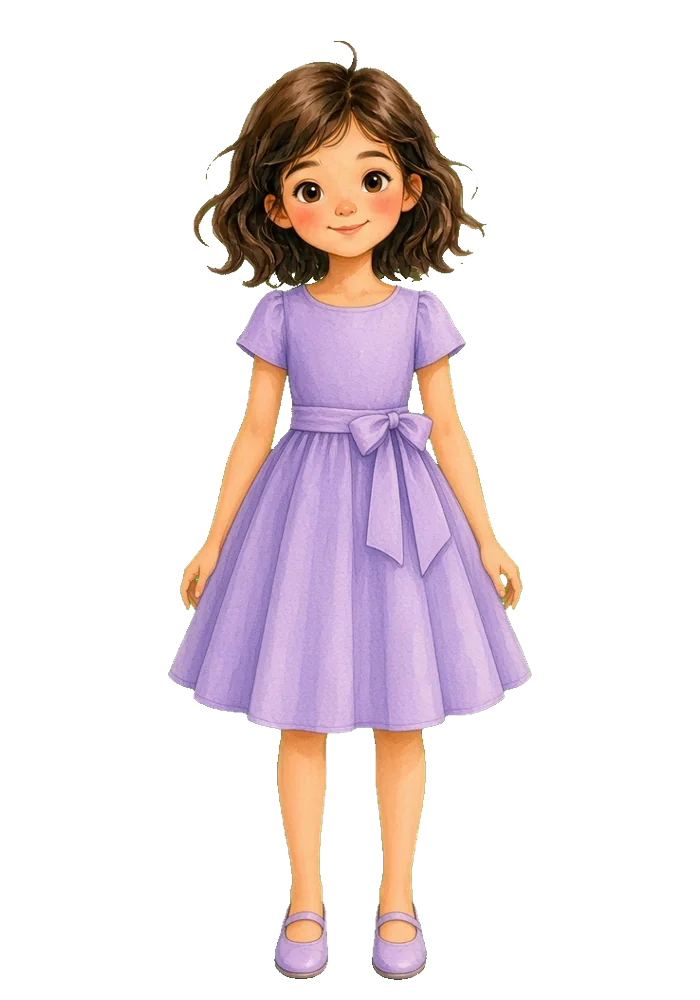
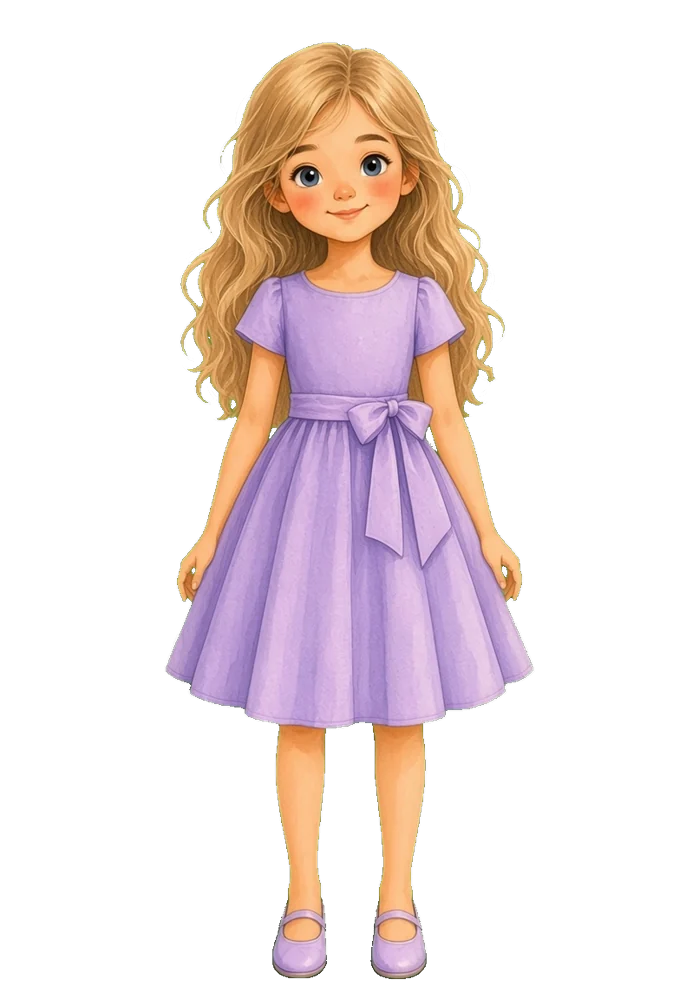
Give Aida long dark blonde hair and blue eyes.
Repaint every outfit, the home-screen icon, and the What's new note for version 1.1.2.

diff --git a/tests/sanity.spec.ts b/tests/sanity.spec.ts
@@ -228,11 +228,11 @@ test('plays every part of Potato Region', async ({ page }) => {
   const href = await page.locator('[data-action="mailto"]').getAttribute('href');
   const decoded = decodeURIComponent(href ?? '');
   expect(decoded).toContain('mailto:gulcin.yildirim@clickhouse.com');
-  expect(decoded).toContain('Potato Region report – v1.1.2 – Map');
+  expect(decoded).toContain('Potato Region report – v1.1.3 – Map');
   expect(decoded).toContain('Note: The blue farm is lovely');
   expect(decoded).toContain('Type: bug');
   expect(decoded).toContain('Screen: Map');
-  expect(decoded).toContain('Version: v1.1.2');
+  expect(decoded).toContain('Version: v1.1.3');
   expect(decoded).toContain('Device:');
   expect(decoded).toContain('Timestamp:');
   const posted = page.waitForRequest((request) => request.url().includes('/api/feedback') && request.method() === 'POST');
@@ -272,14 +272,14 @@ test('plays every part of Potato Region', async ({ page }) => {
   await page.locator('[data-key="clear"]').click();
   await expect(page.locator('[data-gate-entry]')).toHaveText('');
   for (const key of ['1', '0', '2', 'ok']) await page.locator(`[data-key="${key}"]`).click();
-  await expect(page.locator('[data-version]')).toHaveText('Version v1.1.2');
+  await expect(page.locator('[data-version]')).toHaveText('Version v1.1.3');
   await expect(page.locator('[data-feedback-list]')).toContainText('The blue farm is lovely');
   await page.locator('[data-action="check-updates"]').click();
   await expect(page.locator('[data-update-status]')).toHaveText('You have the newest game.');
   await expectFit(page);
   await page.locator('[data-action="whatsnew"]').click();
   await expectChrome(page, 'whatsnew');
-  await expect(page.locator('h2')).toContainText("What's new in v1.1.2");
+  await expect(page.locator('h2')).toContainText("What's new in v1.1.3");
   await expectFit(page);
   await page.locator('[data-action="map"]').click();
   await expect(page.locator('#app')).toHaveAttribute('data-screen', 'map');

diff --git a/src/catalog.ts b/src/catalog.ts
@@ -67,6 +67,7 @@ export const COLOR_LABEL: Record<PotatoColor, string> = {
 };
 
 export const WHATS_NEW = [
+  'Aida has long dark blonde hair and blue eyes.',
   'An update can arrive. Start again keeps your potatoes.',
   'Play together finds a friend again if the iPad screen goes dark.',
   'Play together on one farm.',

diff --git a/CHANGELOG.md b/CHANGELOG.md
@@ -5,6 +5,12 @@ All notable changes to Potato Region are documented in this file.
 The format is based on [Keep a Changelog](https://keepachangelog.com/en/1.1.0/),
 and this project adheres to [Semantic Versioning](https://semver.org/spec/v2.0.0.html).
 
+## [1.1.3] - 2026-10-19
+
+### Changed
+
+- Aida has long dark blonde hair and blue eyes in every outfit, on the map, the farms, in the shop and the house, in Play together, and on the app icon.
+
 ## [1.1.2] - 2026-10-19
 
 ### Fixed

diff --git a/README.md b/README.md
@@ -3,7 +3,7 @@
 Aida's Potato Region is a quiet farming game for an iPad Home Screen. Grow colourful potatoes, trade them, dress up, and fill your house.
 
 **Live:** https://gulcin.github.io/potato-region/
-**Version:** 1.1.2
+**Version:** 1.1.3
 
 ## Play together on two phones
 
